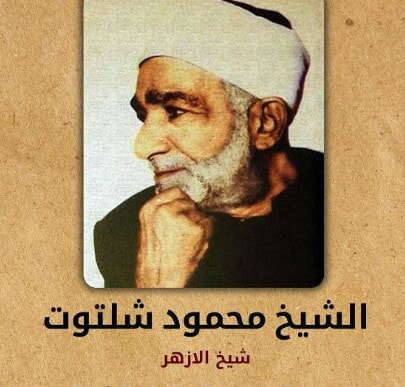
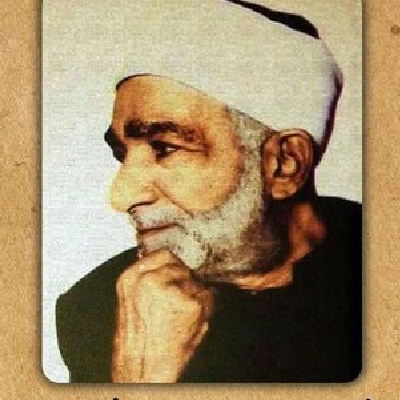
update

diff --git a/about.html b/about.html
@@ -37,25 +37,24 @@
     <div class="row">
       <div class="jumbotron jumbotron-fluid text-center">
         <div class="container  bg-light">
-          <h1 class="display-4">Fluid jumbotron</h1>
-          <p class="lead">This is a modified jumbotron that occupies the entire horizontal space of its parent.</p>
+          <h1 class="display-4">The Great Scholars of Al Azhar</h1>
         </div>
       </div>
     </div>
     <div class="row">
       <div class="col-md-4">
         <div class="work-box">
-          <a href="imgs/quds.jpg" data-gallery="portfolioGallery" class="portfolio-lightbox">
+          <a href="imgs/sh-hassan-elattar.png" data-gallery="portfolioGallery" class="portfolio-lightbox">
             <div class="work-img">
-              <img src="imgs/quds.jpg" alt="" class="img-fluid">
+              <img src="imgs/sh-hassan-elattar.png" alt="" class="img-fluid">
             </div>
           </a>
           <div class="work-content">
             <div class="row">
               <div class="col-sm-8">
-                <h2 class="w-title">Lorem impsum dolor</h2>
+                <h2 class="w-title">Shaykh Hasan al-Attar</h2>
                 <div class="w-more">
-                  <span class="w-ctegory">Web Design</span> / <span class="w-date">18 Sep. 2018</span>
+                  He was the 16th  Grand Imam of al-Azhar from 1830 to 1835
                 </div>
               </div>
               <div class="col-sm-4">
@@ -69,17 +68,17 @@
       </div>
       <div class="col-md-4">
         <div class="work-box">
-          <a href="imgs/quds.jpg" data-gallery="portfolioGallery" class="portfolio-lightbox">
+          <a href="imgs/sh-mahmoud-shaltout.jpg" data-gallery="portfolioGallery" class="portfolio-lightbox">
             <div class="work-img">
-              <img src="imgs/quds.jpg" alt="" class="img-fluid">
+              <img src="imgs/sh-mahmoud-shaltout.jpg" alt="" class="img-fluid">
             </div>
           </a>
           <div class="work-content">
             <div class="row">
               <div class="col-sm-8">
-                <h2 class="w-title">Loreda Cuno Nere</h2>
+                <h2 class="w-title">Mahmud Shaltut</h2>
                 <div class="w-more">
-                  <span class="w-ctegory">Web Design</span> / <span class="w-date">18 Sep. 2018</span>
+                  He is considered as the Greatest Imam of Al Azhar
                 </div>
               </div>
               <div class="col-sm-4">
@@ -93,17 +92,17 @@
       </div>
       <div class="col-md-4">
         <div class="work-box">
-          <a href="imgs/quds.jpg" data-gallery="portfolioGallery" class="portfolio-lightbox">
+          <a href="imgs/sh-abdallah-kharashi.png" data-gallery="portfolioGallery" class="portfolio-lightbox">
             <div class="work-img">
-              <img src="imgs/quds.jpg" alt="" class="img-fluid">
+              <img src="imgs/sh-abdallah-kharashi.png" alt="" class="img-fluid">
             </div>
           </a>
           <div class="work-content">
             <div class="row">
               <div class="col-sm-8">
-                <h2 class="w-title">Mavrito Lana Dere</h2>
+                <h2 class="w-title">Muhammad al-Kharashi</h2>
                 <div class="w-more">
-                  <span class="w-ctegory">Web Design</span> / <span class="w-date">18 Sep. 2018</span>
+                    The first Grand Imam of the Al-Azhar Mosque in Cairo
                 </div>
               </div>
               <div class="col-sm-4">
@@ -123,13 +122,20 @@
       <div class="card mb-3" >
         <div class="row no-gutters">
           <div class="col-md-4">
-            <img src="..." alt="...">
+            <img src="imgs/azhar-mosque.jpg" width="100%">
           </div>
           <div class="col-md-8">
             <div class="card-body">
-              <h5 class="card-title">Card title</h5>
-              <p class="card-text">This is a wider card with supporting text below as a natural lead-in to additional content. This content is a little bit longer.</p>
-              <p class="card-text"><small class="text-muted">Last updated 3 mins ago</small></p>
+              <h5 class="card-title">History of Al Azhar</h5>
+              <p class="card-text">
+                <ul >
+  <li > <strong>970 CE:</strong> Founded by the Fatimid Caliphate in Cairo, Egypt.</li>
+  <li > <strong>11th Century:</strong> Transitioned from a Shia Ismaili center to a Sunni institution under the Abbasid Caliphate.</li>
+  <li > <strong>12th Century:</strong> Gained prominence as a leading Sunni institution of higher learning.</li>
+  <li > <strong>Modern Era:</strong> Underwent modernization and reforms to adapt to contemporary challenges while preserving traditional Islamic teachings.</li>
+  <li > <strong>Present:</strong> Continues to be a renowned center for Islamic education and scholarship globally, influencing religious discourse and attracting students from around the world.</li>
+</ul>
+              </p>
             </div>
           </div>
         </div>
@@ -140,14 +146,17 @@
 
           <div class="col-md-8">
             <div class="card-body">
-              <h5 class="card-title">Card title</h5>
-              <p class="card-text">This is a wider card with supporting text below as a natural lead-in to additional content. This content is a little bit longer.</p>
-              <p class="card-text"><small class="text-muted">Last updated 3 mins ago</small></p>
+              <h5 class="card-title">Al Azhar and the Palestinian cause</h5>
+              <p class="card-text">
+Al-Azhar, a renowned Islamic institution, stands in solidarity with the Palestinian cause. It advocates for the rights of Palestinians, condemns the occupation of their territories, and supports their quest for self-determination and a just resolution to the Israeli-Palestinian conflict.
+
+
+              </p>
             </div>
           </div>
 
           <div class="col-md-4">
-            <img src="..." alt="...">
+            <img src="imgs/quds.jpg" width="100%">
           </div>
 
         </div>
@@ -157,13 +166,15 @@
       <div class="card mb-3" >
         <div class="row no-gutters">
           <div class="col-md-4">
-            <img src="..." alt="...">
+            <img src="imgs/arab-map.jpg" width="100%">
           </div>
           <div class="col-md-8">
             <div class="card-body">
-              <h5 class="card-title">Card title</h5>
-              <p class="card-text">This is a wider card with supporting text below as a natural lead-in to additional content. This content is a little bit longer.</p>
-              <p class="card-text"><small class="text-muted">Last updated 3 mins ago</small></p>
+              <h5 class="card-title">Al Azhar and the Arab World</h5>
+              <p class="card-text">
+
+                Al-Azhar University stands as a beacon of pride for the Arab world, cherished for its rich history, esteemed scholars, and profound contributions to Islamic learning. Across the Arab world, countless students aspire to study within its venerable halls, drawn by its reputation for academic excellence and religious scholarship. Al-Azhar's teachings resonate deeply with Arab communities, reflecting cultural values and spiritual heritage. Its role as a center of Islamic knowledge and enlightenment continues to inspire generations, fostering a profound sense of reverence and admiration throughout the Arab world.
+              </p>
             </div>
           </div>
         </div>

diff --git a/contact.html b/contact.html
@@ -80,22 +80,29 @@
                   <div class="col-md-6">
                     <div class="title-box-2 pt-4 pt-md-0">
                       <h5 class="title-left">
-                        Get in Touch
+                        Get in Touch with Al-Azhar
                       </h5>
                     </div>
                     <div class="more-info">
                       <p class="lead">
-                        Lorem ipsum dolor sit amet consectetur adipisicing elit. Facilis dolorum dolorem soluta quidem
-                        expedita aperiam aliquid at.
-                        Totam magni ipsum suscipit amet? Autem nemo esse laboriosam ratione nobis
-                        mollitia inventore?
-                      </p>
-                      <ul class="list-ico">
-                        <li><span class="bi bi-geo-alt"></span> 329 WASHINGTON ST BOSTON, MA 02108</li>
-                        <li><span class="bi bi-phone"></span> (617) 557-0089</li>
-                        <li><span class="bi bi-envelope"></span> contact@example.com</li>
-                      </ul>
-                    </div>
+    <p>We welcome you to connect with Al-Azhar, a bastion of Islamic learning and enlightenment. Whether you seek further information, have inquiries, or wish to engage with our esteemed institution, we encourage you to reach out through the following channels:</p>
+
+    <h4>Contact Information:</h4>
+    <ul class="list-unstyled">
+      <li><strong>Address:</strong> Al-Azhar Mosque, El-Darb El-Ahmar, Cairo, Egypt.</li>
+      <li><strong>Phone:</strong> +20 2 25102482</li>
+      <li><strong>Email:</strong> info@alazhar.edu.eg</li>
+    </ul>
+
+    <h4>Social Media:</h4>
+    <p>Stay updated with the latest news, events, and insights from Al-Azhar by following us on social media:</p>
+    <ul class="list-inline">
+      <li class="list-inline-item"><a href="https://www.facebook.com/AlAzharOfficialPage" target="_blank">Facebook</a></li>
+      <li class="list-inline-item"><a href="https://twitter.com/AlAzharUni" target="_blank">Twitter</a></li>
+      <li class="list-inline-item"><a href="https://www.instagram.com/alazhar.official/" target="_blank">Instagram</a></li>
+    </ul>
+
+
                     <div class="socials">
                       <ul>
                         <li><a href=""><span class="ico-circle"><i class="bi bi-facebook"></i></span></a></li>

diff --git a/index.html b/index.html
@@ -146,30 +146,17 @@ Al-Azhar Mosque is in Cairo, Egypt in the historic Islamic core of the city.It w
           <div class="card-header" id="headingTwo">
             <h2 class="mb-0">
               <button class="accordion-button collapsed" type="button" data-toggle="collapse" data-target="#collapseTwo" aria-expanded="false" aria-controls="collapseTwo">
-                Collapsible Group Item #2
+                Grand Imam of al-Azhar
               </button>
             </h2>
           </div>
           <div id="collapseTwo" class="collapse" aria-labelledby="headingTwo" data-parent="#accordionExample">
             <div class="card-body">
-              Some placeholder content for the second accordion panel. This panel is hidden by default.
+              The Grand Imam of al-Azhar is a prestigious and a prominent official title in Egypt. He is considered by some Muslims to be the highest authority in Sunni Islamic thought and Islamic jurisprudence and holds great influence on followers of the theological Ash'ari and Maturidi traditions worldwide. The Grand Imam heads the Al-Azhar Al Sharif, al-Azhar Mosque, and by extension al-Azhar University, and is responsible for official religious matters along with the Grand Mufti of Egypt.
             </div>
           </div>
         </div>
-        <div class="card">
-          <div class="card-header" id="headingThree">
-            <h2 class="mb-0">
-              <button class=" accordion-button  collapsed" type="button" data-toggle="collapse" data-target="#collapseThree" aria-expanded="false" aria-controls="collapseThree">
-                Collapsible Group Item #3
-              </button>
-            </h2>
-          </div>
-          <div id="collapseThree" class="collapse" aria-labelledby="headingThree" data-parent="#accordionExample">
-            <div class="card-body">
-              And lastly, the placeholder content for the third and final accordion panel. This panel is hidden by default.
-            </div>
-          </div>
-        </div>
+
       </div>
 
     </div>
